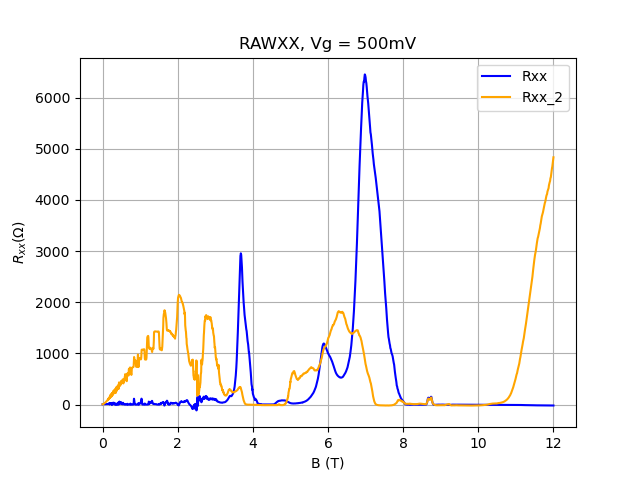
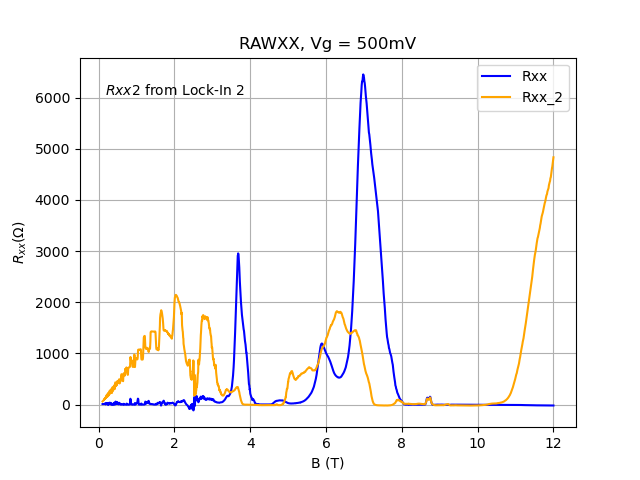
Plot update + bug fix
Included all raw xx and xy plots. Also fixed a bug surrounding how main.py determines how to choose which lockin reads Rxx2 if the gate value occurs in both arrays

diff --git a/Parallel_Subband_Inversion_Analysis.py b/Parallel_Subband_Inversion_Analysis.py
@@ -167,15 +167,16 @@ def ParallelAnalysis(Vg: int, lockin2XX: bool, Rxx_1or2: int, I = 2e-6, Iscaler 
     
     
     PlotRAWXX = 1
-    PlotRAWXY = 0
+    PlotRAWXY = 1
     PlotINVXX = 0
     PlotINVXY = 0
-    PlotFFTXX = 1
+    PlotFFTXX = 0
     
-    SaveRAWXX = False
-    SaveRAWXY = False
-    SaveINVXX = False
-    SaveINVXY = False
+    SaveRAWXX = 1
+    SaveRAWXY = 1
+    SaveINVXX = 0
+    SaveINVXY = 0
+    SaveFFTXX = 0
     
     
     
@@ -419,8 +420,14 @@ def ParallelAnalysis(Vg: int, lockin2XX: bool, Rxx_1or2: int, I = 2e-6, Iscaler 
         
         if SaveRAWXX == True:
             if lockin2XX == False:
+                plt.annotate(text=r"$Rxx2$ from Lock-In 3",
+                     xy=[0.05,0.9],
+                     xycoords='axes fraction')
                 plt.savefig("plots/RAWXX_2_" + str(Vg) + ".png")
             else:
+                plt.annotate(text=r"$Rxx2$ from Lock-In 2",
+                     xy=[0.05,0.9],
+                     xycoords='axes fraction')
                 plt.savefig("plots/RAWXX_4_" + str(Vg) + ".png")
             
     
@@ -448,8 +455,14 @@ def ParallelAnalysis(Vg: int, lockin2XX: bool, Rxx_1or2: int, I = 2e-6, Iscaler 
         
         if SaveRAWXY == True:
             if lockin2XX == False:
+                plt.annotate(text=r"$Rxx2$ from Lock-In 3",
+                     xy=[0.05,0.9],
+                     xycoords='axes fraction')
                 plt.savefig("plots/RAWXY_2_" + str(Vg) + ".png")
             else:
+                plt.annotate(text=r"$Rxx2$ from Lock-In 2",
+                     xy=[0.05,0.9],
+                     xycoords='axes fraction')
                 plt.savefig("plots/RAWXY_4_" + str(Vg) + ".png")
 
 
@@ -487,8 +500,14 @@ def ParallelAnalysis(Vg: int, lockin2XX: bool, Rxx_1or2: int, I = 2e-6, Iscaler 
     
         if SaveINVXX == True:
             if lockin2XX == False:
+                plt.annotate(text=r"$Rxx2$ from Lock-In 3",
+                     xy=[0.05,0.9],
+                     xycoords='axes fraction')
                 plt.savefig("plots/INVXX_2_" + str(Vg) + ".png")
             else:
+                plt.annotate(text=r"$Rxx2$ from Lock-In 2",
+                     xy=[0.05,0.9],
+                     xycoords='axes fraction')
                 plt.savefig("plots/INVXX_4_" + str(Vg) + ".png")
     
     
@@ -527,8 +546,14 @@ def ParallelAnalysis(Vg: int, lockin2XX: bool, Rxx_1or2: int, I = 2e-6, Iscaler 
         
         if SaveINVXY == True:
             if lockin2XX == False:
+                plt.annotate(text=r"$Rxx2$ from Lock-In 3",
+                     xy=[0.05,0.9],
+                     xycoords='axes fraction')
                 plt.savefig("plots/INVXY_2_" + str(Vg) + ".png")
             else:
+                plt.annotate(text=r"$Rxx2$ from Lock-In 2",
+                     xy=[0.05,0.9],
+                     xycoords='axes fraction')
                 plt.savefig("plots/INVXY_4_" + str(Vg) + ".png")
 
 
@@ -588,7 +613,7 @@ def ParallelAnalysis(Vg: int, lockin2XX: bool, Rxx_1or2: int, I = 2e-6, Iscaler 
         if Rxx_1or2 == 2:
             plt.figure()
             plt.plot(D230831B_5_data.An_Field, D230831B_5_data.Rxx_grad, c = 'r', label = "Grad")
-            plt.plot(D230831B_5_data.An_Field, D230831B_5_data.Rxx_x2, c = 'b', label = "R_{xx_x}")
+            plt.plot(D230831B_5_data.An_Field, D230831B_5_data.Rxx_x2, c = 'b', label = "R_{xx_x2}")
         plt.title("Raw Rxx and Gradient of Rxx VS B")
         plt.legend()
             
@@ -616,6 +641,18 @@ def ParallelAnalysis(Vg: int, lockin2XX: bool, Rxx_1or2: int, I = 2e-6, Iscaler 
         plt.title(r'FFT in 1/B of Processed $R_\mathrm{xx}$ (20 mK), sample D230831B_5, $V_\mathrm{g}$ = ' + np.format_float_positional(Vg,precision=4,trim='-') + ' mV')
         plt.xlim(0,5e11)
         
+
+        if SaveFFTXX == True:
+            if lockin2XX == False:
+                plt.annotate(text=r"$Rxx2$ from Lock-In 3",
+                     xy=[0.05,0.9],
+                     xycoords='axes fraction')
+                plt.savefig("plots/FFTXX_2_" + str(Vg) + ".png")
+            else:
+                plt.annotate(text=r"$Rxx2$ from Lock-In 2",
+                     xy=[0.05,0.9],
+                     xycoords='axes fraction')
+                plt.savefig("plots/FFTXX_4_" + str(Vg) + ".png")
         
         
         #CREATE FFT DATAFRAME
@@ -632,8 +669,9 @@ def ParallelAnalysis(Vg: int, lockin2XX: bool, Rxx_1or2: int, I = 2e-6, Iscaler 
     
       
     if PlotFFTXX == 0:
-        FFT = 0                 #Need to return something
-        Rxx_grad = 0
+        FFT = None                 #Need to return something
+        Rxx_grad = None
+        
         
     return inv, FFT, Rxx_grad, nu_bounds
 

diff --git a/Main.py b/Main.py
@@ -43,40 +43,47 @@ if __name__ == "__main__":
     Von_Klitz = 25812.80745
     
     
-    Vg_val = 200
-    Rxx = 1         ###1 or 2, selects whether to use Rxx_x (1) or Rxx_x2 (2)
+    Vg_val = 650
+    Rxx = 2         ###1 or 2, selects whether to use Rxx_x (1) or Rxx_x2 (2)
     Rotate_list = [10, 11.5, 12.1]
 
     ### Vg vals where lockin2XX should be True: 
-    lockin2_Vgs = [000, 100, 150, 200, 250, 300, 350, 400, 450, 500, 600, 650]
+    lockin4_Vgs = [000, 100, 150, 200, 250, 300, 350, 400, 450, 500, 600, 650]
     ### Vg vals where lockin2XX should be False:
-    lockin4_Vgs = [000, 100, 150, 175, 200, 220, 240, 260, 280, 300, 320, 340, 360, 380, 450, 500, 550, 600]
+    lockin2_Vgs = [000, 100, 150, 175, 200, 220, 240, 260, 280, 300, 320, 340, 360, 380, 450, 500, 550, 600]
 
      
 
     #Handle whether lockin_2 is measuring Rxx or Rxy
-    if Vg_val in lockin2_Vgs:
-        lockin2xx_bool = True
+    if (Vg_val in lockin2_Vgs) & (Vg_val in lockin4_Vgs):
+        lockin2xx_bool = True    #User defined default choice of lockin2xx_bool if gate voltage occurs in both arrays
     elif Vg_val in lockin4_Vgs:
-        lockin2xx_bool = False
-    elif (Vg_val in lockin2_Vgs) & (Vg_val in lockin4_Vgs):
-        lockin2xx_bool = True     #Default choice of lockin2xx_bool if gate voltage occurs in both arrays
+        lockin2xx_bool = True       #If Vg_val only occurs in lockin2_Vgs, then lockin2 measures Rxx
+    elif Vg_val in lockin2_Vgs:
+        lockin2xx_bool = False      #If Vg_val only occurs in lockin2_Vgs, then lockin3 measures Rxx
+    
 
-    ### Run ParallelAnalysis with input Vg and neccessary lockin2xx bool and Rotate list
+    #### Run ParallelAnalysis with input Vg and neccessary lockin2xx bool and Rotate list  ####
     
     # inv, nu_bounds = PSIA.ParallelAnalysis(Vg = Vg_val, lockin2XX = lockin2xx_bool, I = 2e-6, Iscaler = 0.9701, Rotate = Rotate_list, ne = 4E15, 
     #                                        B_start = 0, B_end = 1.5)
     inv, FFT, Rxx_grad, nu_bounds = PSIA.ParallelAnalysis(Vg = Vg_val, lockin2XX = lockin2xx_bool, Rxx_1or2 = Rxx, I = 2e-6, Iscaler = 0.9701, Rotate = Rotate_list, ne = 4E15, 
-                                           B_start = 0.1, B_end = 3.0)
+                                           B_start = 0.1, B_end = -1)
     
     #TO DO: Add contour plot function when an array of gate voltages is passed
         #Note: Should probably add all important FFT data to the inv dataframe, since that is returned to Main.py
-    if 1 == 1:
-        print("hi")
-        plt.figure()
-        plt.title("TEST")
-        plt.plot(1e-4*FFT.f_array, 1e-6*np.abs(FFT.Trans))
-        plt.xlim(0,5e11)
+    if 1 == 0:
+        for GV in Vg_val:
+            print("hi")
+            #trans = 
+            inv, FFT, Rxx_grad, nu_bounds = PSIA.ParallelAnalysis(Vg = Vg_val, lockin2XX = lockin2xx_bool, Rxx_1or2 = Rxx, I = 2e-6, Iscaler = 0.9701, Rotate = Rotate_list, ne = 4E15, 
+                                                    B_start = 0.1, B_end = 3.0)
+                
+
+            plt.figure()
+            plt.title("TEST")
+            plt.plot(1e-4*FFT.f_array, 1e-6*np.abs(FFT.Trans))
+            plt.xlim(0,3e11)
 
         
     
